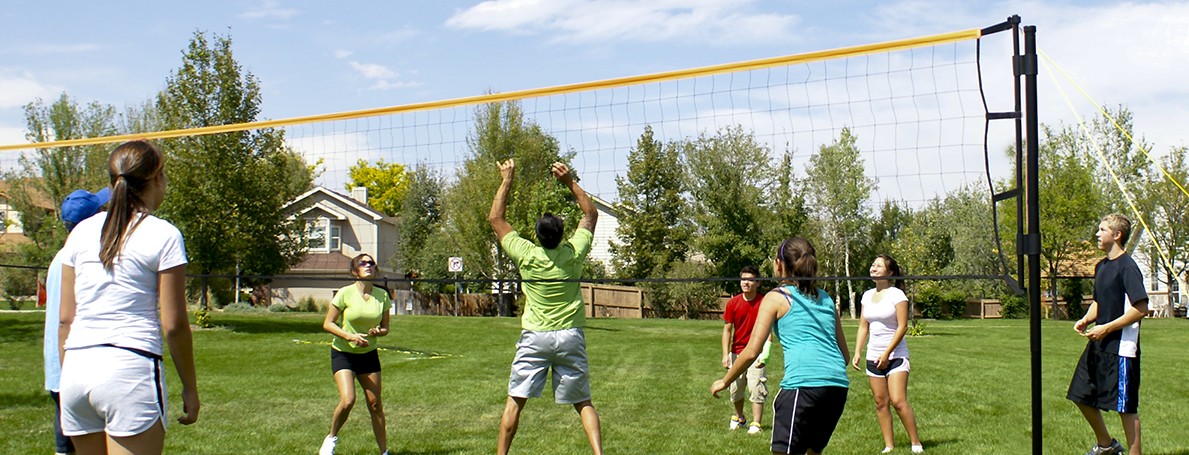
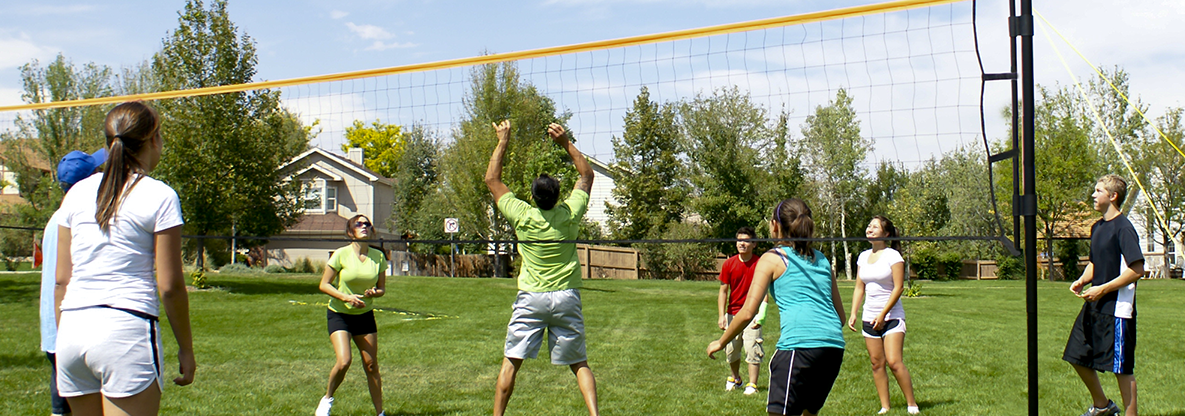
Front Page styled again

diff --git a/Integration_Project/wwwroot/lib/bootstrap/dist/css/Cerulean.css b/Integration_Project/wwwroot/lib/bootstrap/dist/css/Cerulean.css
@@ -533,10 +533,10 @@ th {
   content: "\e078";
 }
 .glyphicon-chevron-left:before {
-  content: "\e079";
+    content: '<';
 }
 .glyphicon-chevron-right:before {
-  content: "\e080";
+    content: '>';
 }
 .glyphicon-plus-sign:before {
   content: "\e081";

diff --git a/Integration_Project/wwwroot/css/site.css b/Integration_Project/wwwroot/css/site.css
@@ -51,11 +51,6 @@ body {
     box-shadow: inset -7px 4px 20px -2px rgba(163,158,163,0.62);
 }
 
-#conference-pic {
-    height: auto;
-    width: 100%;
-}
-#volleyball-pic {
-    height: 50%;
-    width: auto;
+.indexcaption {
+    color: white;    
 }
